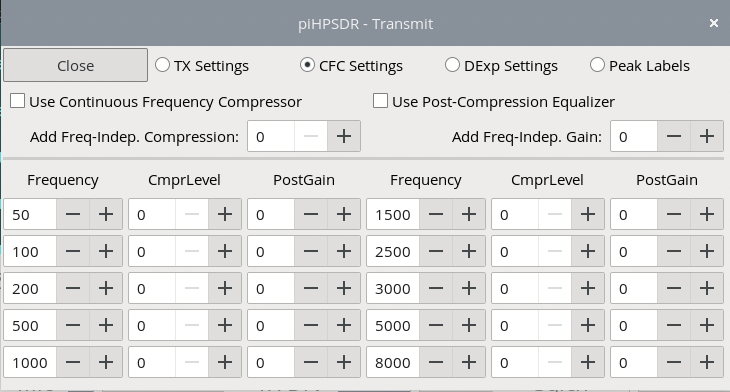
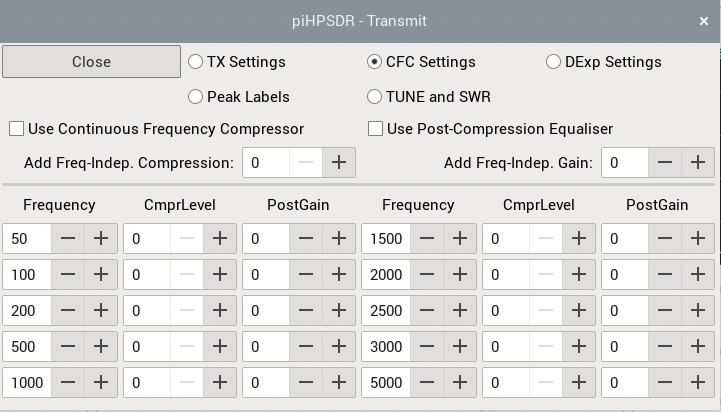
Added the new "TUNE with SWR-dependent side tone" feature to the manual.

Changed region(s): [[0.0, 0.2143, 1.0, 1.0], [0.0, 0.0306, 1.0, 0.2143]]

diff --git a/release/LatexManual/piHPSDR-Manual.tex b/release/LatexManual/piHPSDR-Manual.tex
@@ -2435,7 +2435,25 @@ Note that for RX-only radios, only the \bltt{CW} menu will be shown here
 because there one can set the pitch of the CW side tone, which also affects
 the RX ,,BFO frequency''.
 
+
 \section{The \texttt{TX} Menu}
+
+The \bltt{TX} menu can be opened from the main menu, or just by a secondary mouse click
+into the TX pan-adapter (while transmitting). The menu is shown in Fig. \ref{fig:TXMenu}.
+This menu has five sub-menus, called the \rett{TX Settings} for general transmitter settings,
+the \rett{CFC settings} for controlling the continuous frequency compressor (CFC),  the
+\rett{DExp Settings} for controlling the downward expander (DEXP),  the \rett{Peak Lables}
+settings for controlling if and how peaks are labelled with their dBm values,
+and finally the \rett{TUNE and SWR} settings with options for TUNE-ing and SWR control.
+With the radio buttons
+in the top row of the menu you can switch between the sub-menus. When you open the TX
+menu for the first time after starting \pH, the TX settings are shown. Subsequently opening
+the TX menu always shows the sub-menu that was on display when the TX  menu was closed the last
+time.
+
+\subsection{TX Menu: TX Settings}
+
+
 \label{sec:txmenu}
 \begin{figure}[ht!]
 \center
@@ -2443,19 +2461,6 @@ the RX ,,BFO frequency''.
 \caption{The \bltt{TX} menu with the TX settings.}
 \label{fig:TXMenu}
 \end{figure}
-
-The \bltt{TX} menu can be opened from the main menu, or just by a secondary mouse click
-into the TX pan-adapter (while transmitting). The menu is shown in Fig. \ref{fig:TXMenu}.
-This menu has three sub-menus, called the \rett{TX Settings} for general transmitter settings,
-the \rett{CFC settings} for controlling the continuous frequency compressor (CFC),  the
-\rett{DwdExp Settings} for controlling the downward expander (DEXP), and the \rett{Peak Lables}
-settings for controlling if and how peaks are labelled with their dBm values. With the radio buttons
-in the top row of the menu you can switch between the four sub-menus. When you open the TX
-menu for the first time after starting \pH, the TX settings are shown. Subsequently opening
-the TX menu always shows the sub-menu that was on display when the TX  menu was closed the last
-time.
-
-\subsection{TX Menu: TX Settings}
 
 \rett{Local Microphone}. If this box is checked, the TX audio samples come from a sound card
 attached to the host computer, or from a virtual audio cable. The sound device can be
@@ -2518,28 +2523,6 @@ and disabled for digi modes (DIGL/DIGU), and when switching modes, the compresso
 settings for the new mode are automatically restored. The compressor can be used (although
 this might not be recommended together with the CFC).
 
-\rett{Tune use Drive} If this box is checked, TUNE-ing will be done with the power that corresponds to the
-current position of the drive slider, and the tune drive level is ignored.
-
-\rett{Tune Drive Level} The value that can be adjusted with this spin box is the virtual position of the
-drive slider while TUNE-ing. This value is ignored if the \rett{Tune use Drive} box is checked.
-
-\rett{Panadapter High:} This spin button sets the upper edge (in dBm) of the TX pan-adapter.
-
-\rett{Panadapter Low:} This spin button sets the lower edge (in dBm) of the TX pan-adapter.
-
-\rett{Panadapter Step:} This spin button determines how many horizontal lines are drawn on the
-TX pan-adapter. If set to 10, for example, there will be a horizontal line for every multiple
-of 10 dBm.
-
-\rett{SWR protection} If this box is checked, a very simple SWR protection is enabled. If the SWR exceeds
-the threshold value (see next point), the drive slider is set to zero. The SWR protection is disabled
-while TUNE-ing.
-
-\rett{SWR alarm at} The spin button to the right determines the SWR threshold. If the SWR is beyond the
-threshold, the SWR reported in the meter turns red. If SWR protection is enabled, the drive slider is set to
-zero if the SWR exceeds the threshold.
-
 \rett{CTCSS Enable} (FM only!) This checkbox enables/disables CTCSS (continuous tone coded squelch system).
 If enabled, a low-frequency
 tone is transmitted together with the normal TX audio. This can be used to trigger repeaters, or any other
@@ -2571,19 +2554,26 @@ carrier and the
 signal is a DSB signal. A reasonable value is 0.5 which leads to 100\% modulation. Values larger than
 0.5 have less than 100\% modulation. This means too much power goes into the carrier.
 
-\rett{Frames Per Second:} This spin button determines how many frames per second are drawn for the TX
-pan-adapter. The default value, 10, is a good choice.
+\rett{Max Digi Drv} This spin button restricts the range of the drive slider from 0 to the
+chosen value
+for the DIGU and DIGL modes. If the value is 100, this has no effect. The primary use of this menu point is
+PA protection,
+since many digital modes (unlike SSB voice) are constantly transmitting at full power.
+
+\rett{Panadapter High:} This spin button sets the upper edge (in dBm) of the TX pan-adapter.
+
+\rett{Panadapter Low:} This spin button sets the lower edge (in dBm) of the TX pan-adapter.
+
+\rett{Panadapter Step:} This spin button determines how many horizontal lines are drawn on the
+TX pan-adapter. If set to 10, for example, there will be a horizontal line for every multiple
+of 10 dBm.
 
 \rett{Fill Panadapter} This is used to enable/disable the ,,Filling'' option
 for the TX  spectrum scope (see chapter \ref{sec:FillingGradient}). No ,,gradient''
 option is available for the TX scope.
 
-
-\rett{Max Drive for digi} This spin button restricts the range of the drive slider from 0 to the
-chosen value
-for the DIGU and DIGL modes. If the value is 100, this has no effect. The primary use of this menu point is
-PA protection,
-since many digital modes (unlike SSB voice) are constantly transmitting at full power.
+\rett{Frames Per Second:} This spin button determines how many frames per second are drawn for the TX
+pan-adapter. The default value, 10, is a good choice.
 
 \subsection{TX Menu: CFC Settings}
 \label{sec:cfc}
@@ -2631,7 +2621,8 @@ corner frequency while linear interpolation is used between corner frequencies.
 \label{fig:DEXPmenu}
 \end{figure}
 
-In the sub-menu for the downward expander, you can control the settings for DEXP. DEXP can be viewed
+In the sub-menu for the downward expander, you can control the settings for the downward expander
+(DEXP). This can be viewed
 as a configurable noise gate that applies to the TX audio input. Its main use is to suppress low noise
 (e.g. from fans) that are taken up  by the microphone in speech pauses. The downward expander damps
 such noise as long it is below a trigger level. Once the ,,noise'' exceeds the trigger level (that is,
@@ -2677,8 +2668,6 @@ new triggering audio arrives within that time, the gate is closed and the noise 
 channel filter (if it is enabled). The defaults given here (1000--2000 Hz) are well suited  for distinguishing
 human voice from humming noise coming from fans etc.
 
-
-
 \subsection{TX Menu: Peak Labels}
 
 The ``Peak Labels'' sub-menu allows one to control if and how labels
@@ -2711,7 +2700,49 @@ percentile is 50, then the noise floor is the level of that pixel that is in the
 if all pixels are sorted by their dBm value (a safety margin of 3 dBm is added).
 If the \rett{No Labels Below Noise Floor} box is ticked
 peaks below this value will not be labelled.
+
+\subsection{TX Menu: TUNE and SWR}
+This sub-menu allows to specify the TX drive level while TUNE-ing. For HPSDR radios which report forward
+and reverse power (and thus the SWR), some SWR-dependent controls are added as well.
+
+\begin{figure}[ht]
+\center
+\includegraphics[scale=0.45]{TX_TUNE.png}
+\caption{The TX menu with the peak label settings}
+\label{fig:TXTUNEMenu}
+\end{figure}
+
+\rett{Tune use Drive} If this box is checked, TUNE-ing will be done with the power that corresponds to the
+current position of the drive slider, and the tune drive level is ignored.
+
+\rett{Tune Drive Level} The value that can be adjusted with this spin box is the virtual position of the
+drive slider while TUNE-ing. This value is ignored (and the spin-button made inactive)
+if the \rett{Tune use Drive} box is checked.
+
+\rett{SWR protection} If this box is checked, a very simple SWR protection is enabled. If the SWR exceeds
+the threshold value (see next point), the drive slider is set to zero. The SWR protection is disabled
+while TUNE-ing.
+
+\rett{SWR alarm at} The spin button to the right determines the SWR threshold. If the SWR is beyond the
+threshold, the SWR reported in the meter turns red. If SWR protection is enabled, the drive slider is set to
+zero if the SWR exceeds the threshold.
+
+\rett{SWR-dependent Sidetone with TUNE} If this box is checked, there will be a side tone while TUNE-ing.
+This side tone is similar to a string of dots or dashes, separated by pauses which are 50 msec long.
+The SWR is encoded both in the length and the frequency of the "dashes".  The higher 
+the SWR, the higher (with a limit of 5000 Hz) the pitch, an ideal 1:1 SWR results in a minimum pitch
+of 500 Hz. Likewise, the "dot/dash" length is 50 msec for this ideal SWR and becomes longer as the SWR
+gets larger. So for ideal SWR, the side tones sounds like a string of CW dots at 24 wpm at a pitch of
+500 Hz. This ``dot length'' increases to 125 msec (with a pitch of 725 Hz) if the SWR is 1:1.5,
+and to 500 msec (with a pitch of 1400 Hz) for an SWR of 1:3. The idea of
+this feature is that one can operate a manual antenna tuner without looking at the screen.
+
+\rett{TUNE Sidetone Volume} With this spin-button, one can adjust the volume of the SWR-dependent TUNE side tone
+(allowed range: $0 \ldots 0.5$). \textbf{Attention!} Always start with small values to protect your ears.
+This spin-box is inactive is the \rett{SWR-dependent Sidetone with TUNE} is not active.
+
 %%%%%%%%%%%%%%%%%%%%%%%%%%%%%%%%%%%%%%%%%%%%%%%%%%%%%%%%%%%%%%%%%%%%%%%%%%%%%%%%%%%%%%%%%%%%%%%%%%%%%%%%%%%%
+\clearpage
 \section{The \texttt{PA} Menu}
 
 In the \bltt{PA} menu, you can adjust the output level of your HPSDR board
@@ -2995,6 +3026,14 @@ itself as a HERMES board but needs a quite large SetPk value of about 0.7800. Bu
 cases are easily identified when performing a two-tone test by a large difference
 between the values in the SetPk field and the GetPk value which is obtained from analysing
 the TX DAC data.
+
+\textbf{Attention!} Specifying a wrong value in the \rett{SetPk} field will effectively
+disable \texttt{PURESIGNAL}, and since this value is stored in the props file, this
+adverse effect also shows up in the future, that is, until either the props file is deleted
+or the correct value is again entered in the \rett{SetPk} field. This \textit{caveat} also
+applies if you upgrade your radio firmware from protocol-1 to protocol-2, since then your props
+file still contains the correct protocol-1 value (0.4067) and you have
+to manually modify the \rett{SetPk} value (in this case, to 0.2899).
 
 \begin{figure}[t!]
 \center
@@ -5521,7 +5560,7 @@ language for the text to be spoken.
 
 The whole text-to-speech feature, if it is not needed, can be suppressed by compiling
 \pH \textit{without} the \texttt{TTS} compile-time option (see Sec. \ref{sec:compiletime}).
-Note that even without \texttt{TTS}, 
+Note that even without \texttt{TTS},
 the function keys F3 (start first radio) and F4 (restart
 discovery process) still work on the discovery screen, but without producing any speech.
 
@@ -7639,7 +7678,7 @@ avoided if  there is no need for it, and it needs the \texttt{libcurl}  library 
 \item[\rett{TTS}] {(default: \texttt{ON})
 Activates the text-to-speech capability, meant to improve accessibility for the blind
 (see section \ref{sec:accessibility}). With this option, hitting e.g. function key F1
-reads the current frequency aloud. 
+reads the current frequency aloud.
 }
 
 \item[\rett{AUDIO}] {(default: empty)
